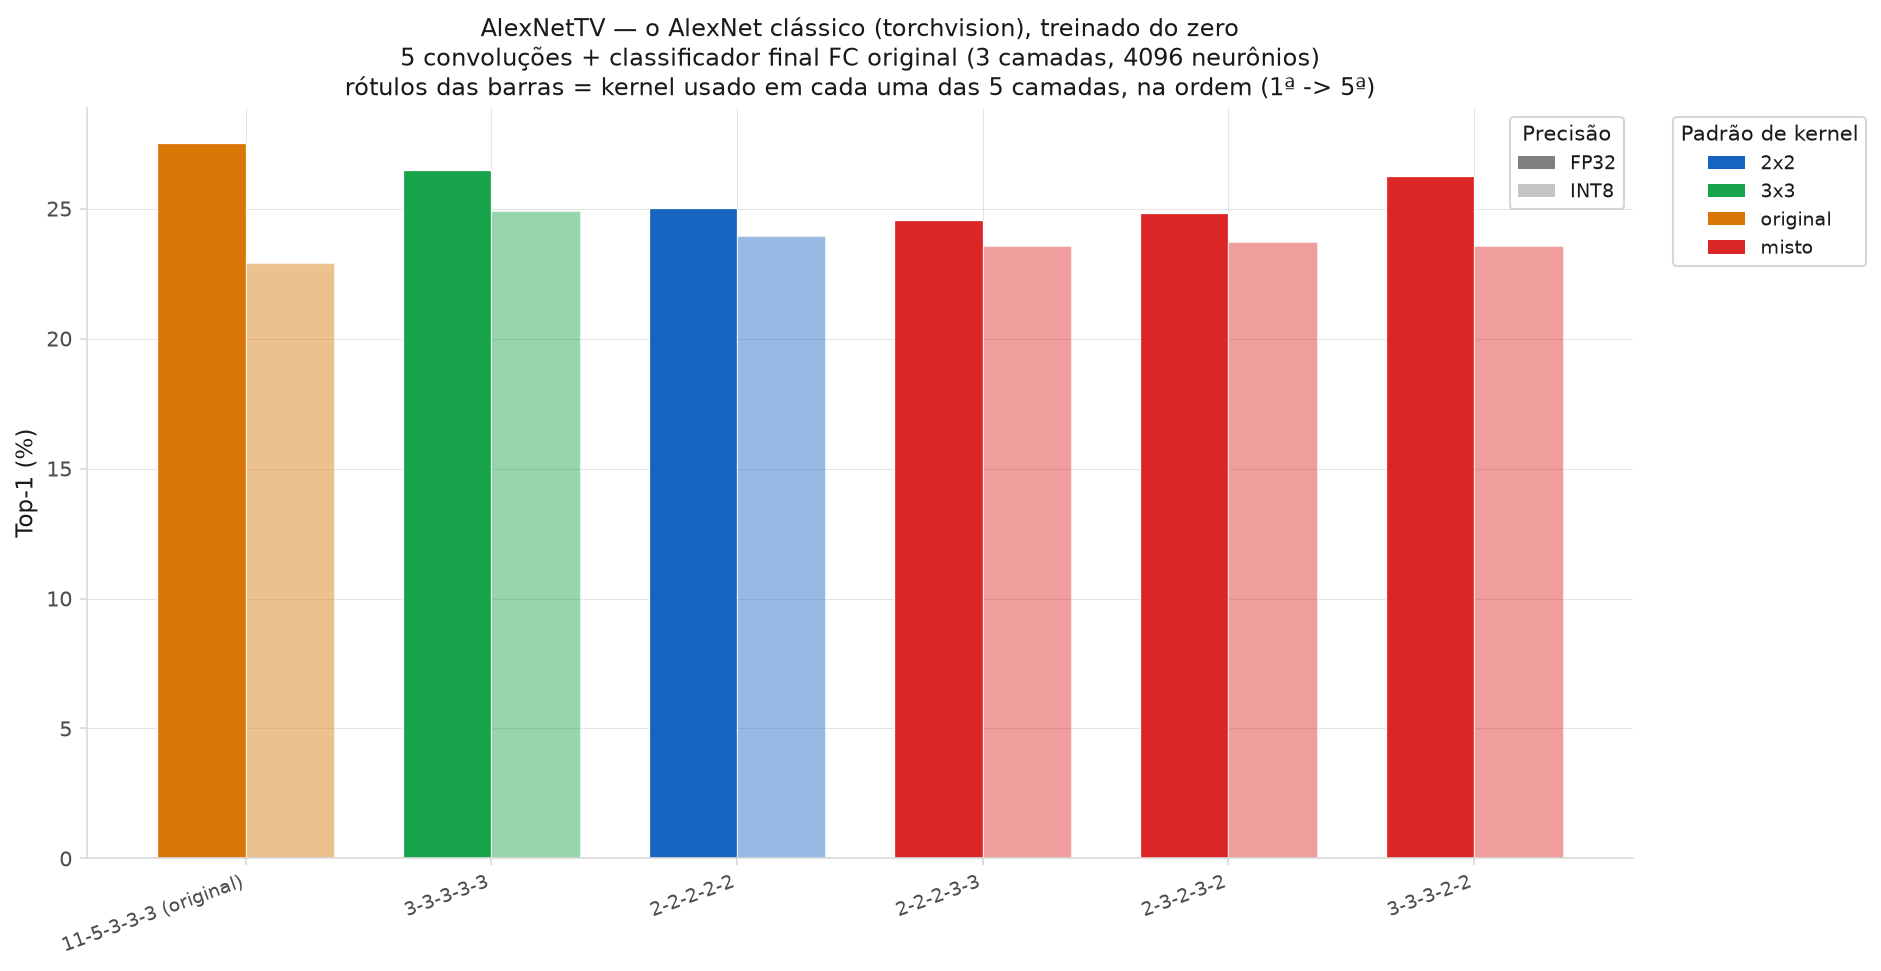
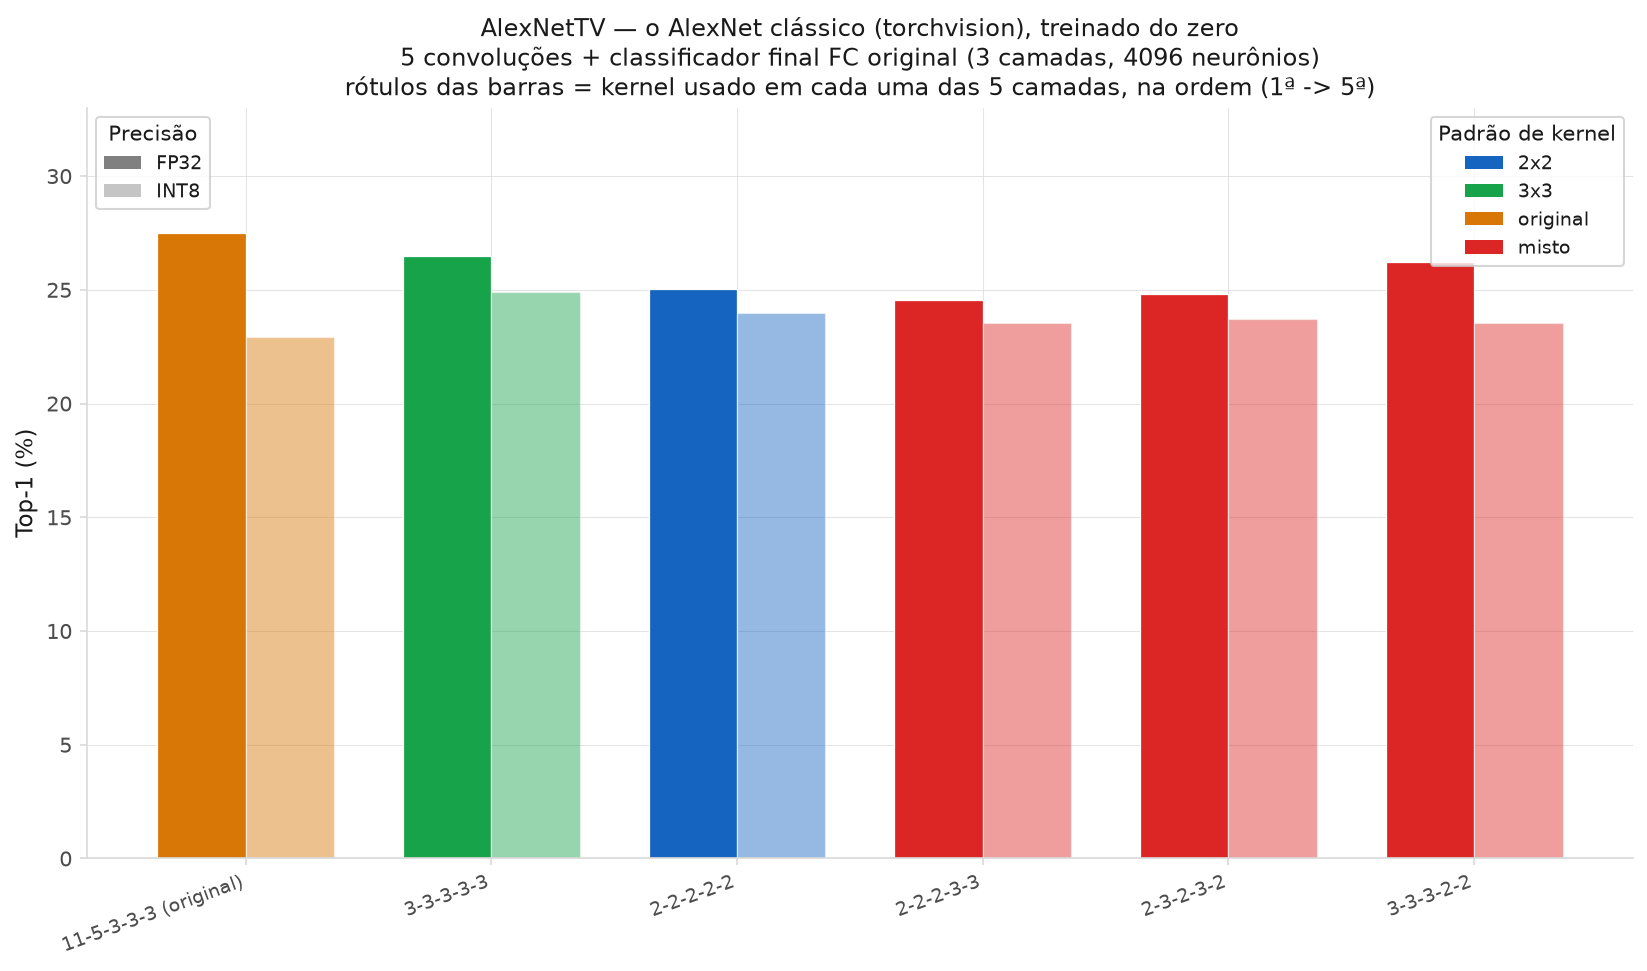
fix: keep figs 02-04 legends inside the axes instead of widening the canvas
The pattern-color legend used outside=True, which expanded the whole
figure width via bbox_inches='tight' and left a large blank gap on the
right, worst on figure 03 (6 bar groups, one line of title). Moved both
legends inside the plot (upper-left/upper-right) with extra y headroom.

diff --git a/scripts/phase11/plot_kernel_comparison.py b/scripts/phase11/plot_kernel_comparison.py
@@ -138,12 +138,13 @@ def fig_family_bar(models, family, filename, title):
     ax.set_xticklabels(labels, rotation=20, ha="right", fontsize=9)
     ax.set_ylabel("Top-1 (%)")
     ax.set_title(title, fontsize=11.5)
+    ax.margins(y=0.2)  # headroom so both legends sit inside the axes instead of widening the figure
     fp32_patch = plt.Rectangle((0, 0), 1, 1, facecolor="gray", label="FP32")
     int8_patch = plt.Rectangle((0, 0), 1, 1, facecolor="gray", alpha=0.45, label="INT8")
-    precision_legend = ax.legend(handles=[fp32_patch, int8_patch], title="Precisão", loc="upper right", fontsize=9)
+    precision_legend = ax.legend(handles=[fp32_patch, int8_patch], title="Precisão", loc="upper left", fontsize=9)
     ax.add_artist(precision_legend)  # kept alive so the pattern-color legend below doesn't replace it
     present_patterns = [p for p in PATTERN_COLOR if p in {m["pattern"] for m in sub}]
-    bar_group_legend(ax, outside=True, patterns=present_patterns)
+    bar_group_legend(ax, loc="upper right", patterns=present_patterns)
     savefig(fig, filename)
 
 
